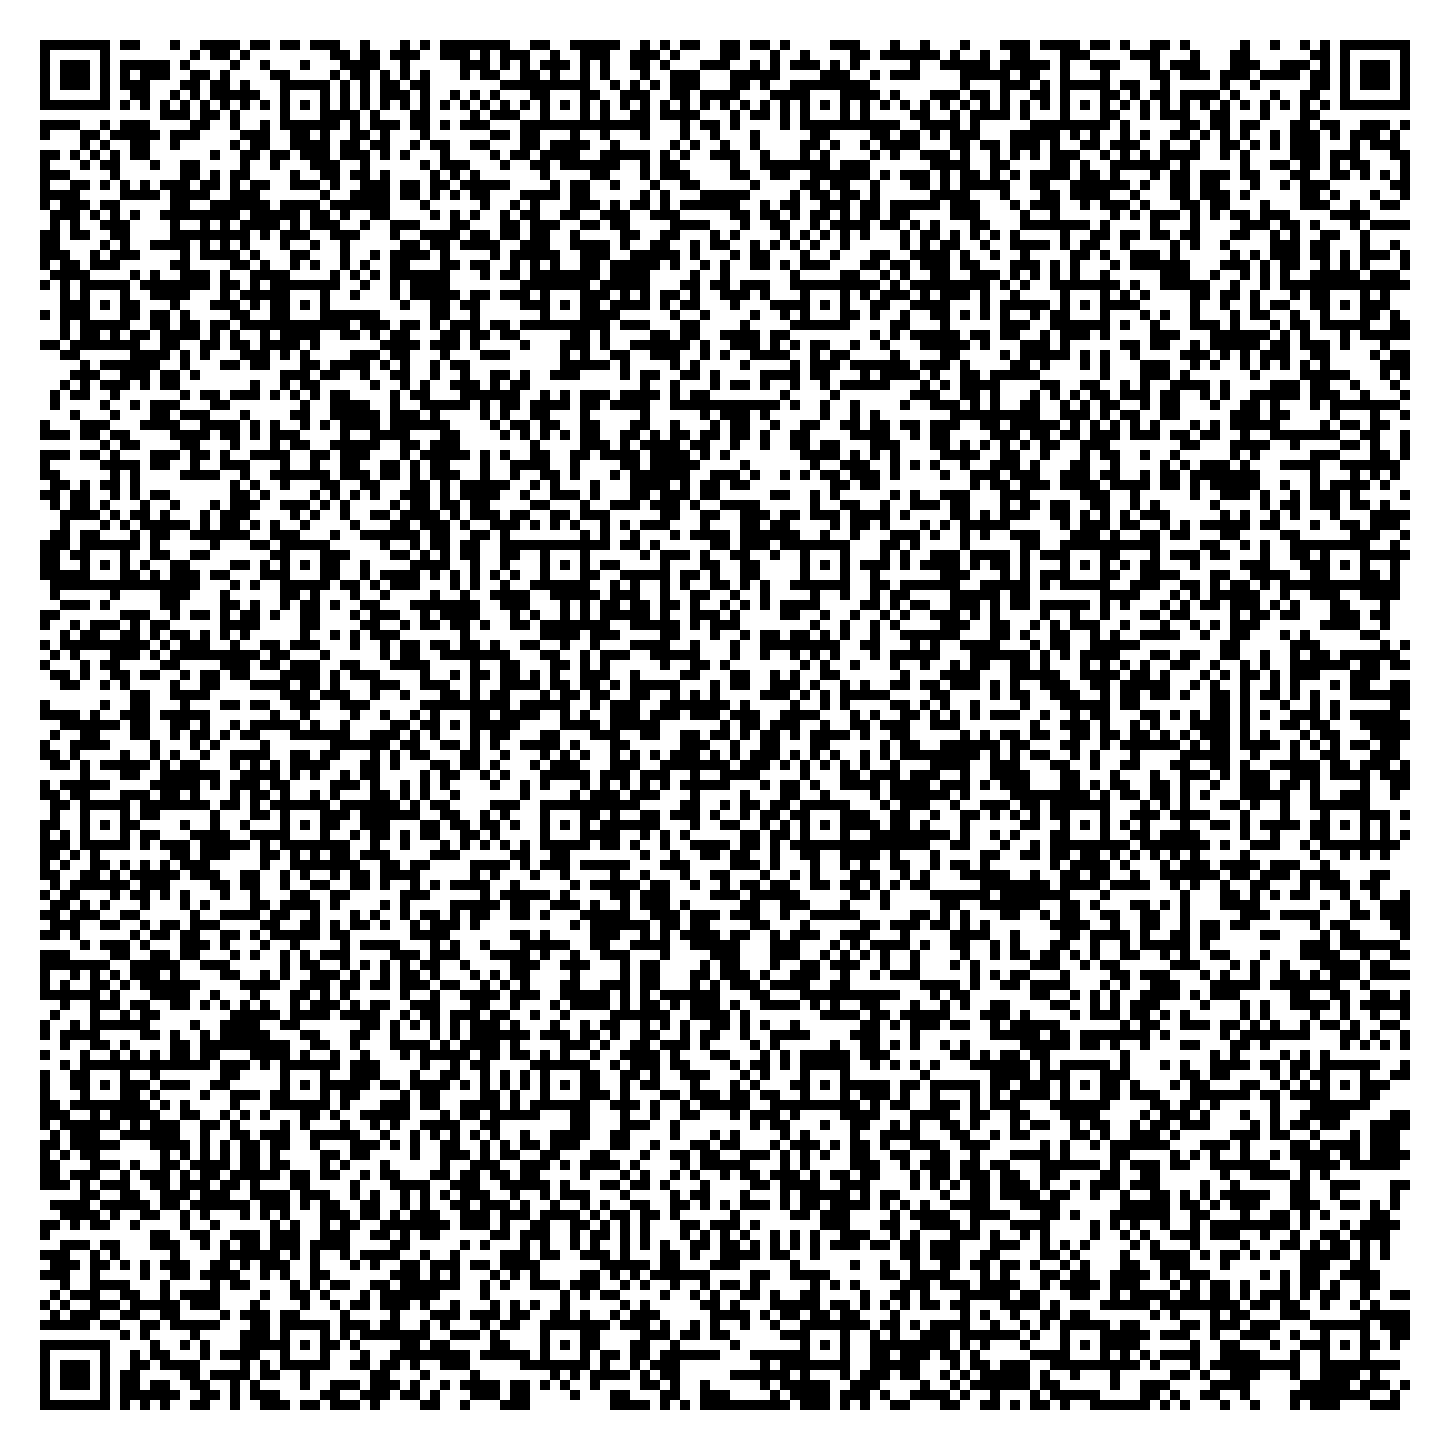
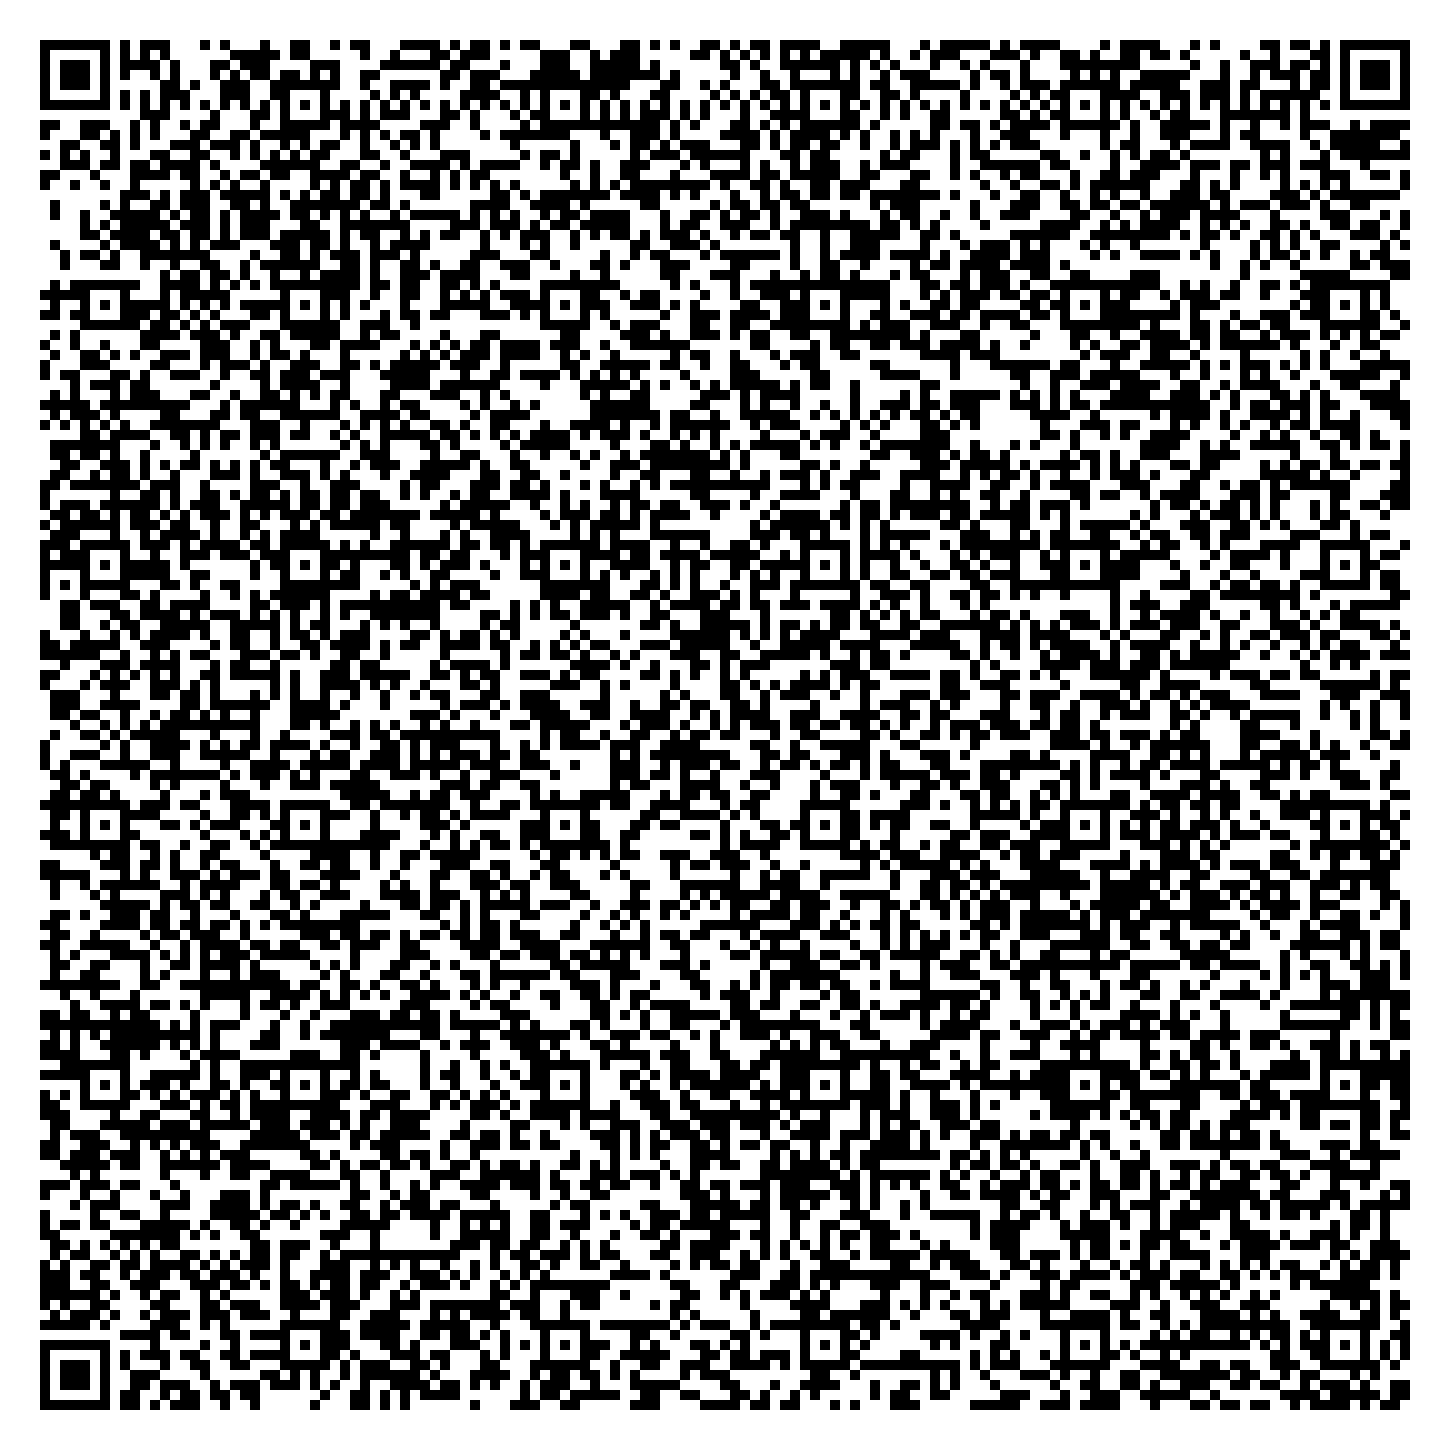
Uint8Array.fromHex is not supported in Chrome yet
Also added whitespace to the template for easier editing

diff --git a/QRGEN.py b/QRGEN.py
@@ -7,12 +7,21 @@ import sys
 import os
 import qrcode
 
-# Modified wrapper template to use gzip decompression instead of deflate
-WRAPPER_TEMPLATE = (
-"""<script type="module">\
-document.open();document.write(await new Response(new Response(Uint8Array.fromHex({bigint}n.toString(16))).body.pipeThrough(new DecompressionStream("gzip"))).text());document.close();\
-</script>"""
-)
+WRAPPER_TEMPLATE = """
+<script>
+(async(R,n,a)=>{{
+  while(n){{
+    a.push(Number(n&255n));
+    n>>=8n
+  }}
+  document.write(
+    await new R(
+      new R(new Uint8Array(a.reverse())).body.pipeThrough(new DecompressionStream("gzip"))
+    ).text()
+  )
+}})(Response,{bigint}n,[])
+</script>
+"""
 
 def main():
     if len(sys.argv) < 2:
@@ -35,7 +44,10 @@ def main():
     bigint = int.from_bytes(compressed)
 
     # Insert the compressed data into the self-extracting wrapper
-    final_html = WRAPPER_TEMPLATE.format(bigint=bigint)
+    self_extracting_html = WRAPPER_TEMPLATE.format(bigint=bigint)
+
+    # Strip leading whitespace
+    final_html = ''.join([line.strip() for line in self_extracting_html.split('\n')])
 
     # Check that the final self-extracting HTML is within the 3KB limit
     final_size = len(final_html.encode('utf-8'))
